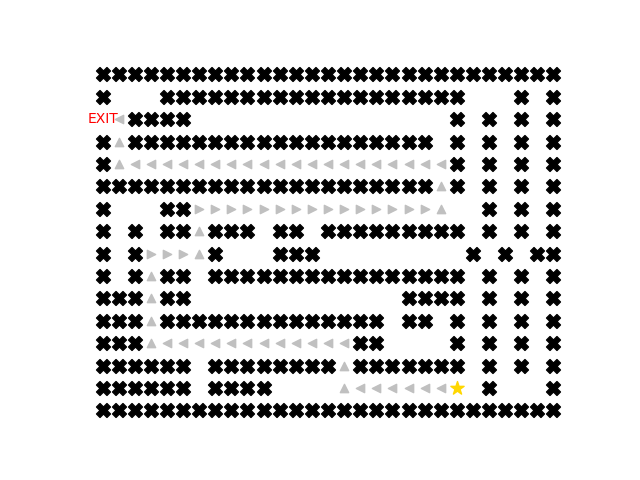
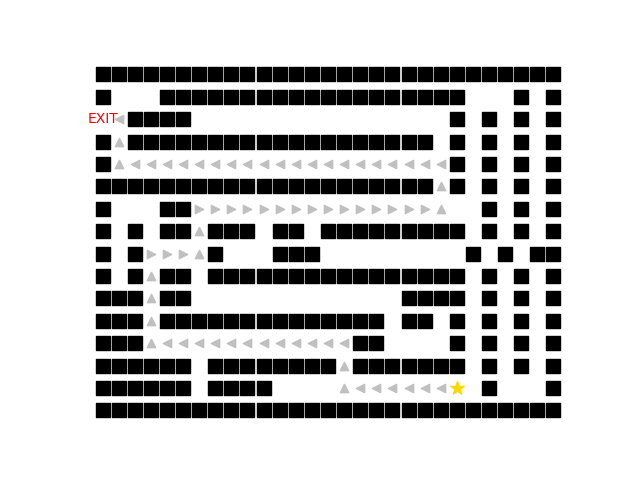
starting level 2

Changed region(s): [[0.125, 0.125, 0.875, 0.875]]

diff --git a/source/level_1/utils.py b/source/level_1/utils.py
@@ -7,6 +7,11 @@ import matplotlib.pyplot as plt
 import os
 
 
+#TO DO: Implement the heuristic functions for level 2
+def Heuristic_level_2(Start, Goal, bonus_points):
+    pass
+    
+
 
 def manhattan(Start, Goal):
     return abs(Start[0] - Goal[0]) + abs(Start[1] - Goal[1])
@@ -119,7 +124,7 @@ class Maze():
             ax.spines[i].set_visible(False)
 
         plt.scatter([i[1] for i in walls],[-i[0] for i in walls],
-                    marker='X',s=100,color='black')
+                    marker='s',s=100,color='black')
         
         plt.scatter([i[1] for i in self.bonus_points],[-i[0] for i in self.bonus_points],
                     marker='P',s=100,color='green')
